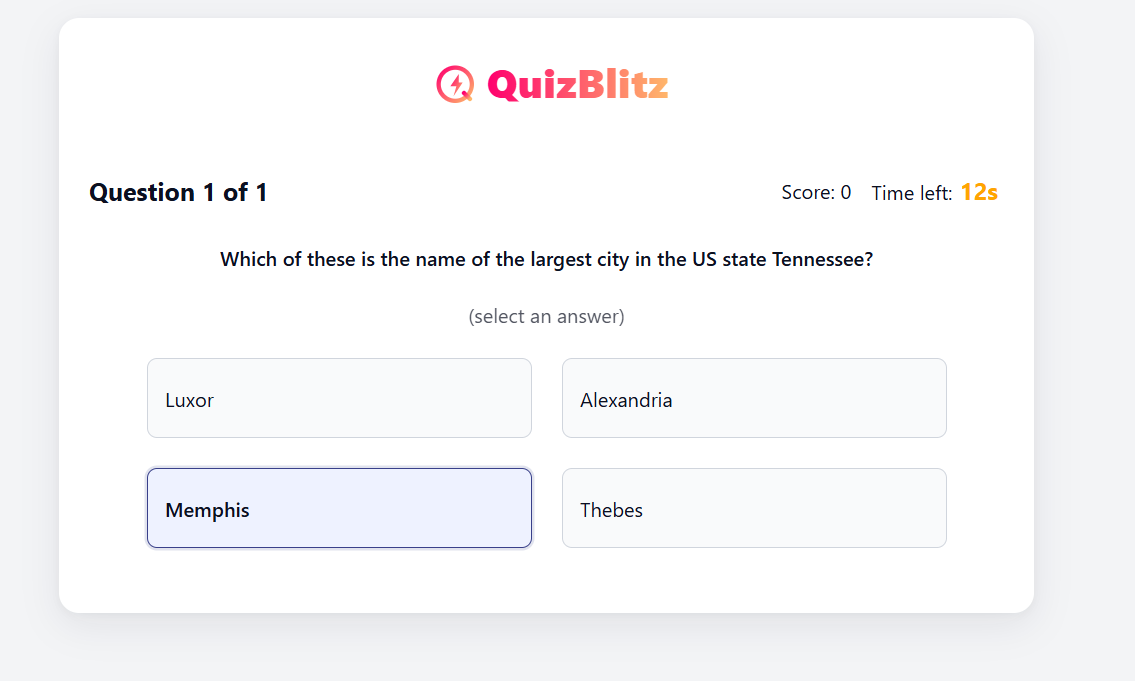
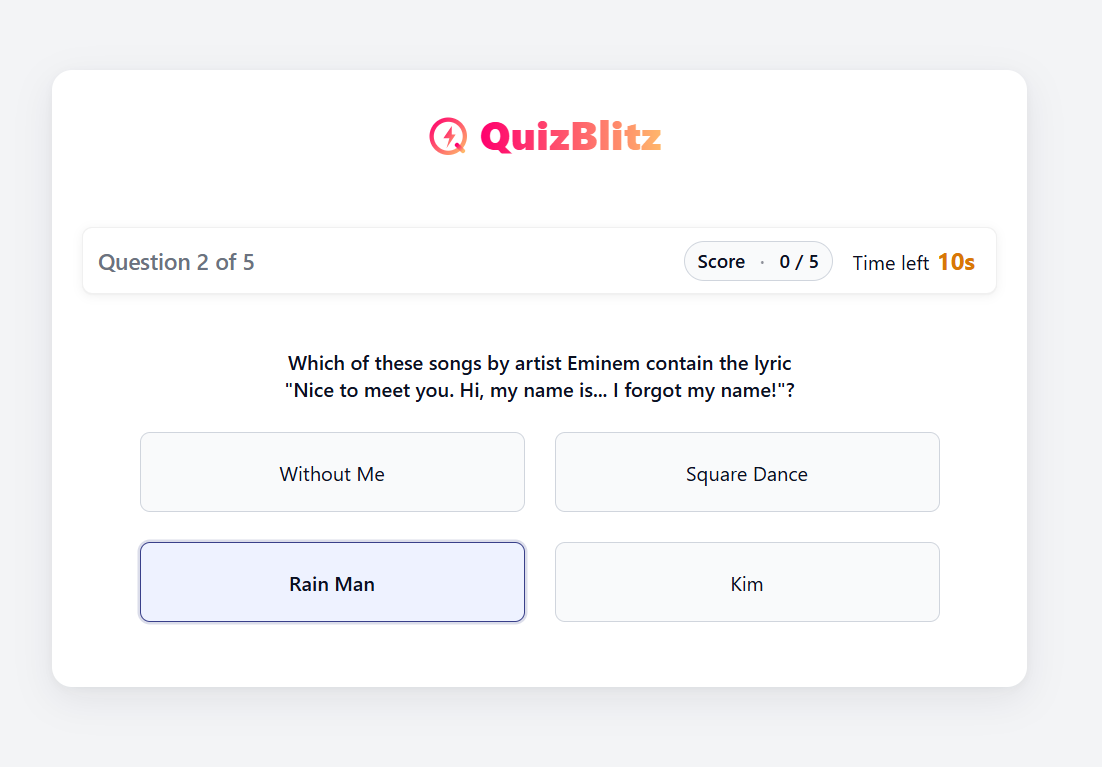
Update README to document UI improvement
- Added updated new preview images
- Modified "Project Status" section

diff --git a/README.md b/README.md
@@ -14,8 +14,6 @@ Fast-paced trivia at your fingertips.
 | :------------------------------------------: |
 |        _Image 3 — The results page._         |
 
-> Note: This is not the final version of the UI.
-
 ## 📚 Overview
 
 **QuizBlitz** is a lightweight trivia app built with **React.js**.
@@ -79,22 +77,20 @@ The project is deployed to a Vercel website [(Click here)](https://quizblitz-taw
 
 ## 📋 Project Status
 
-- ✅ **Initial Cleanup:** Removed default React boilerplate (logos, tests, `reportWebVitals.js`, etc.)
-- ✅ **Branding & Header:** Logo + wordmark
 - ✅ **Completed features:**
     - Core quiz flow (fetch questions, show choices, submit answers)
     - Timer (drift-free) and scoring logic
     - Post-quiz summary (final score, correct answers)
-- ✅ **UI improvement:**
-    - Improved layout and using logo/branding mark
+- ✅ **UI improvement:** Polished to give a more professional look
 - ⚙ **Work in Progress:**
-    - UI improvement: polish the look (and use icons ?)
-    - Maintenance: major refactoring (component extraction, CSS modules, etc.)
+    - Maintenance:
+        - major refactoring (component extraction, CSS modules, etc.)
+        - add small tests
+    - Dark mode
 
 ### 🧭 Next Steps
 
 - Firebase leaderboard integration
-- Dark mode
 - Persistent player alias + theme toggle
 - Responsive design: Mobile-friendly
 - Accessibility (keyboard navigation, focus states, ARIA labels)
